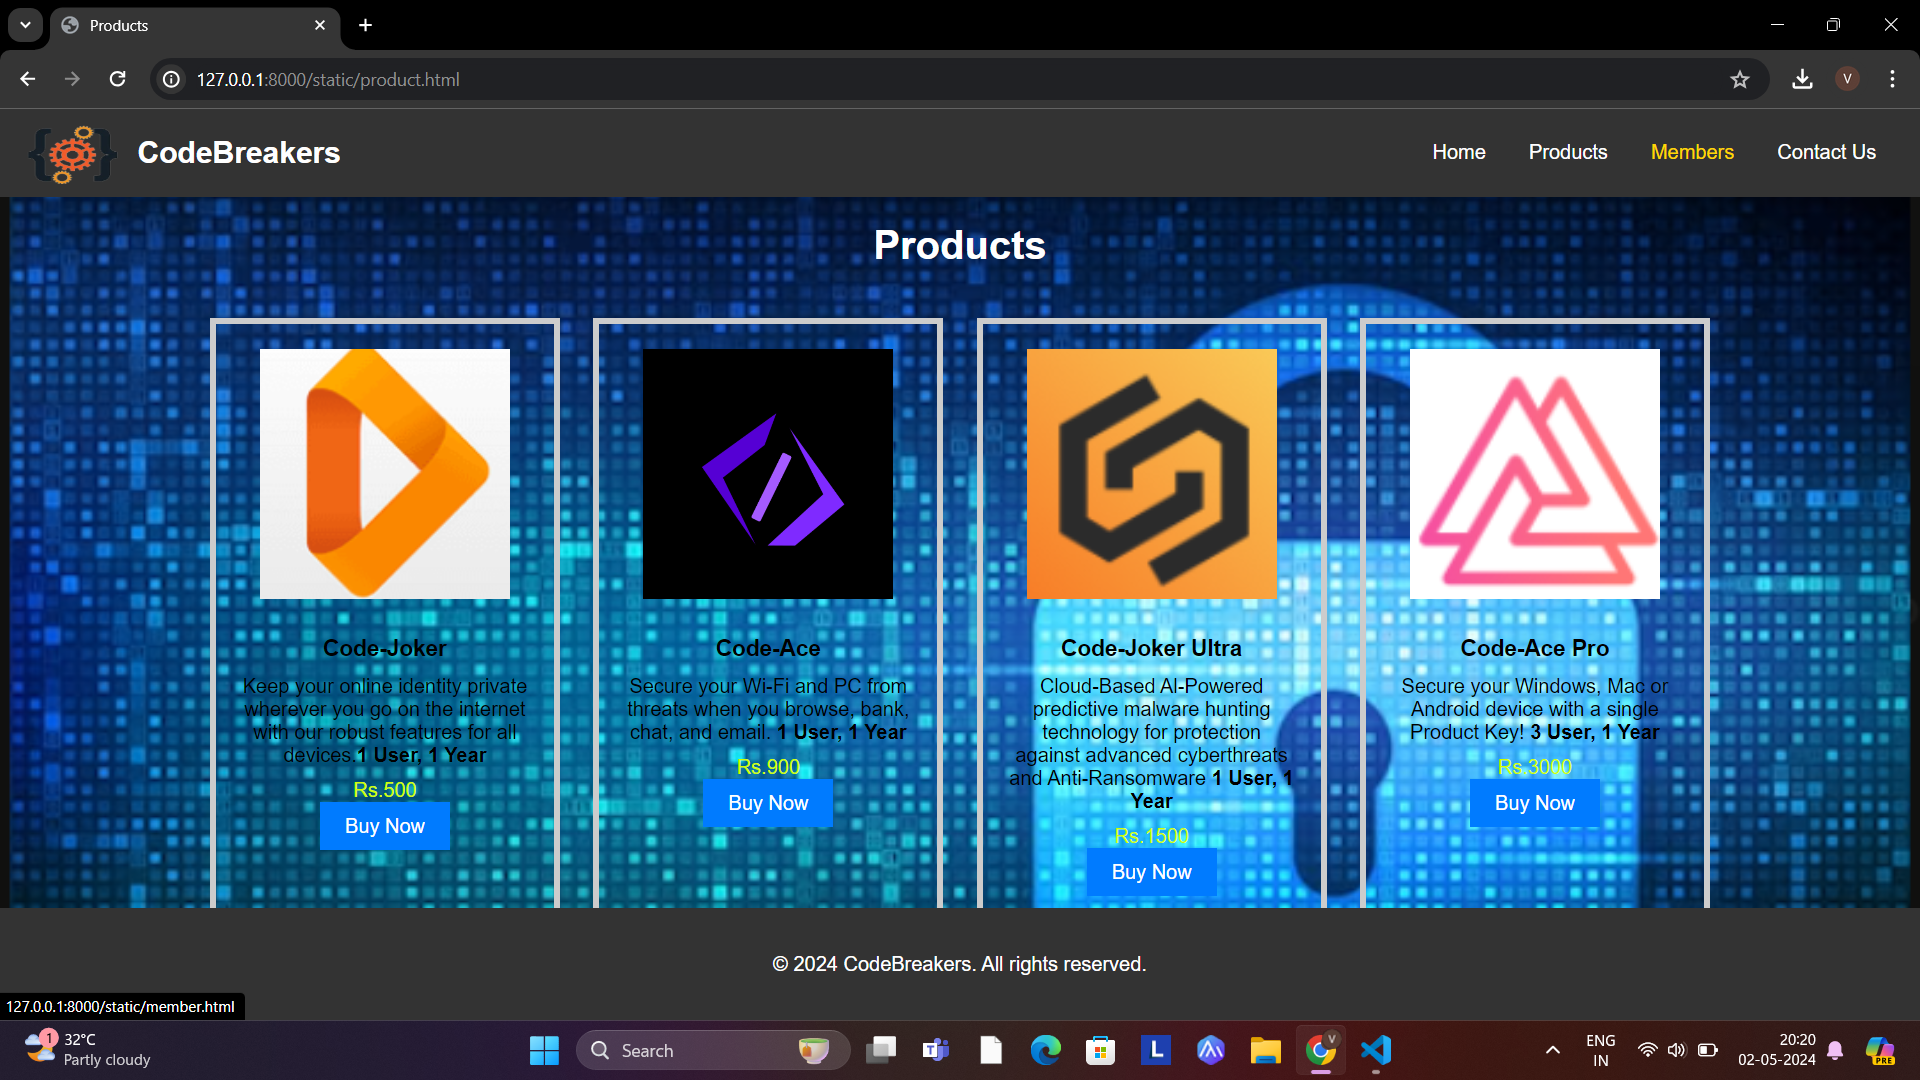
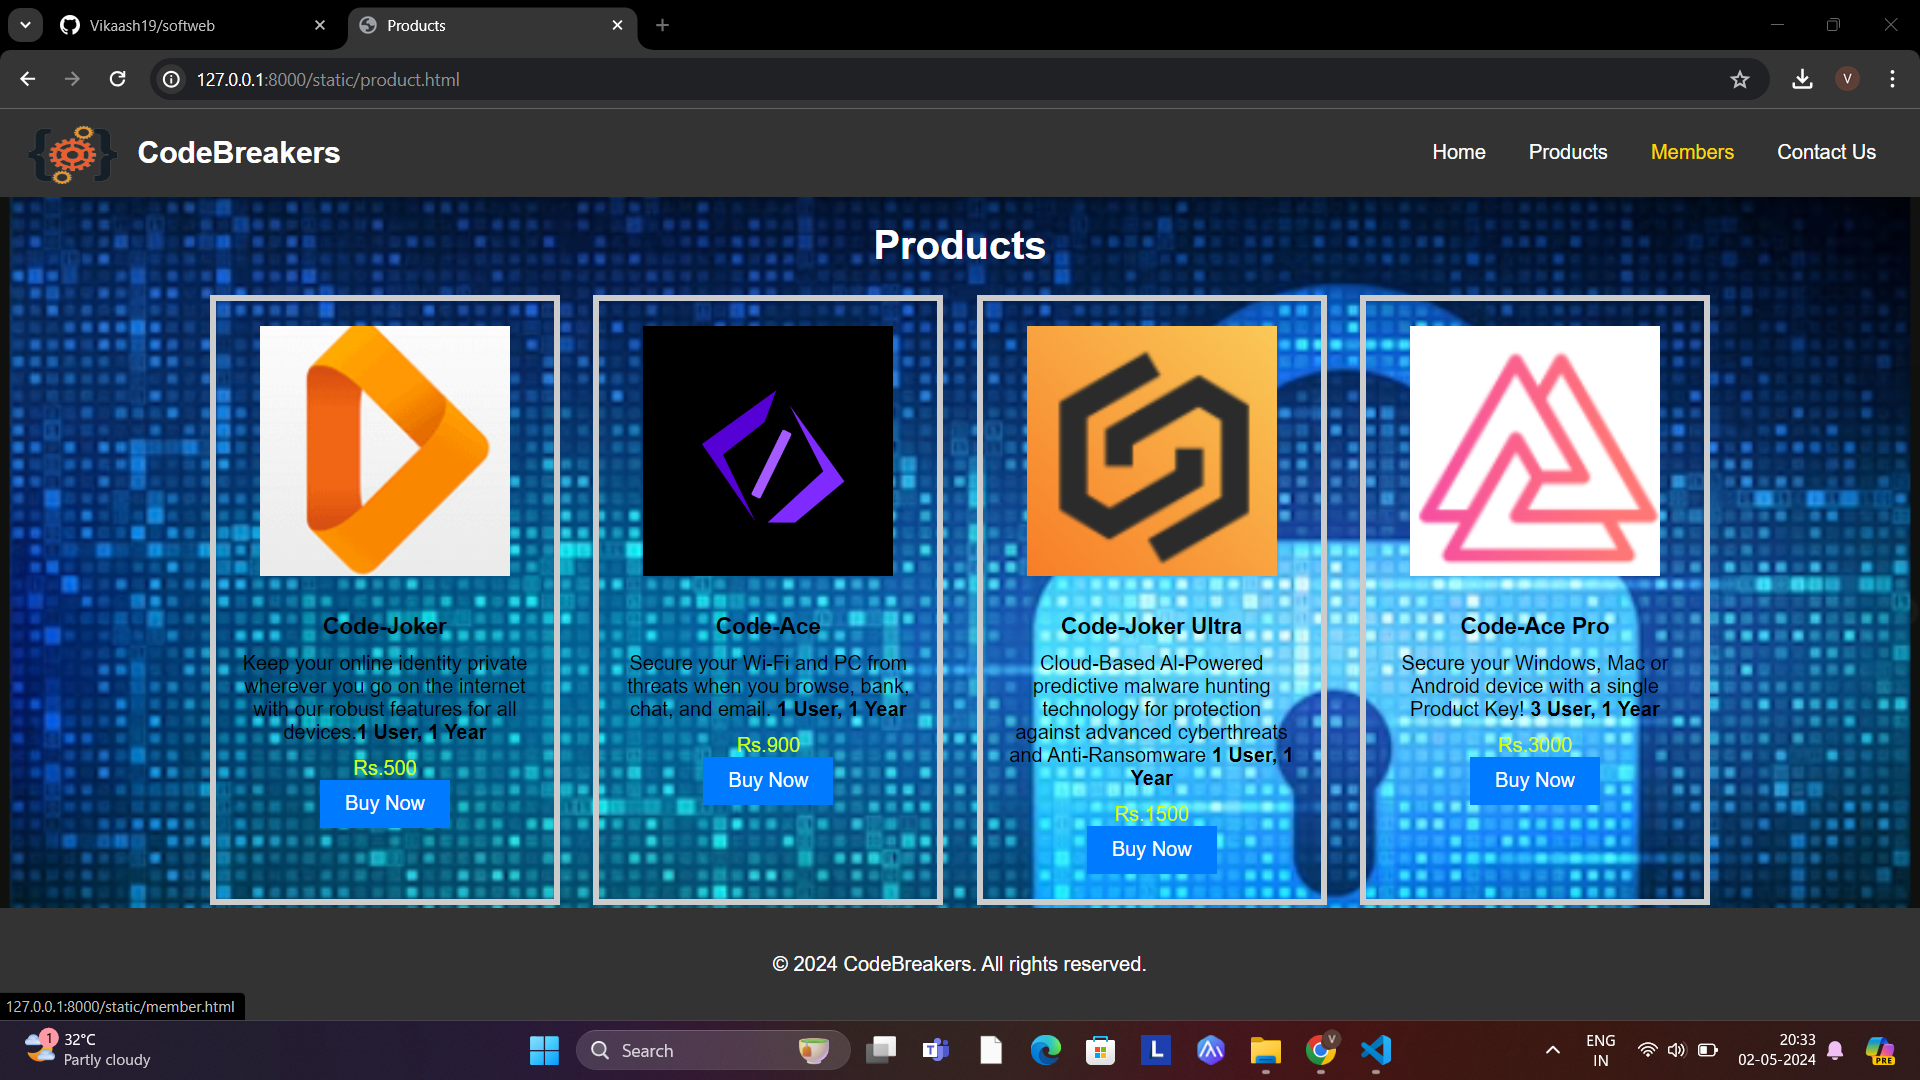
success

diff --git a/exp7/softapp/static/product.html b/exp7/softapp/static/product.html
@@ -72,7 +72,7 @@
         .container1 {
       max-width: 1200px;
       margin: 0 auto;
-      padding: 18px;
+      padding: 0px;
       display: flex;
       justify-content: space-between;
       flex-wrap: wrap;

diff --git a/README.md b/README.md
@@ -388,7 +388,7 @@ product.html
         .container1 {
       max-width: 1200px;
       margin: 0 auto;
-      padding: 18px;
+      padding: 0px;
       display: flex;
       justify-content: space-between;
       flex-wrap: wrap;
